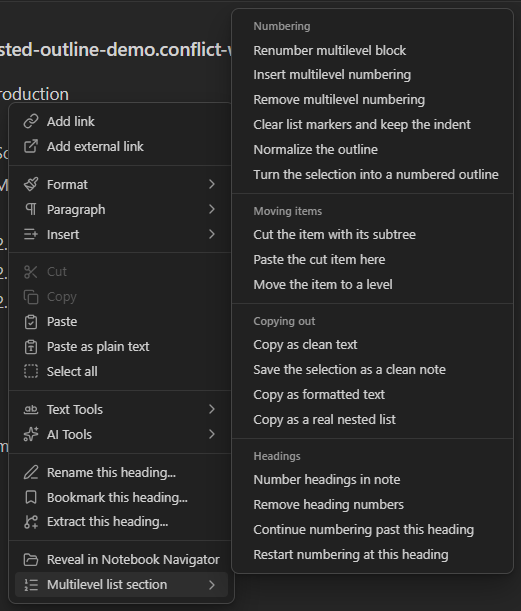
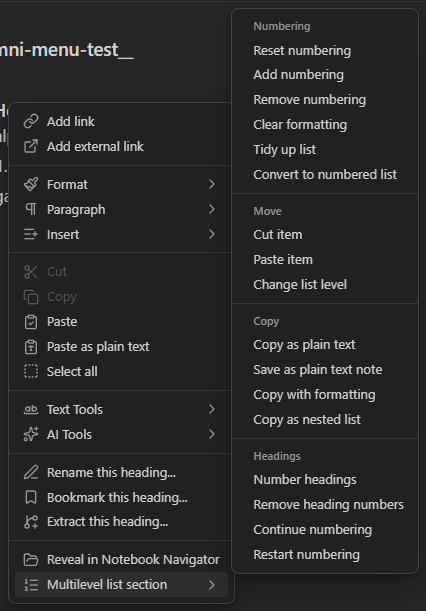
Ship 3.3.9: plain, Word-style names in the right-click menu

diff --git a/main.js b/main.js
@@ -1783,27 +1783,27 @@ class MultilevelNumberIndent extends Plugin {
 
 		this.addCommand({
 			id: "renumber-block",
-			name: "Renumber multilevel block",
+			name: "Reset numbering",
 			editorCallback: (editor) => this.runRange(editor, renumberRange, "renumber"),
 		});
 		this.addCommand({
 			id: "insert-numbering",
-			name: "Insert multilevel numbering",
+			name: "Add numbering",
 			editorCallback: (editor) => this.runRange(editor, insertNumbering, "insert"),
 		});
 		this.addCommand({
 			id: "remove-numbering",
-			name: "Remove multilevel numbering",
+			name: "Remove numbering",
 			editorCallback: (editor) => this.runRange(editor, removeNumbering, "remove"),
 		});
 		this.addCommand({
 			id: "clear-format",
-			name: "Clear list markers and keep the indent",
+			name: "Clear formatting",
 			editorCallback: (editor) => this.runRange(editor, clearFormatting, "clear"),
 		});
 		this.addCommand({
 			id: "number-headings",
-			name: "Number headings in note",
+			name: "Number headings",
 			editorCallback: (editor) => this.runWholeNote(editor, numberHeadings),
 		});
 		this.addCommand({
@@ -1813,12 +1813,12 @@ class MultilevelNumberIndent extends Plugin {
 		});
 		this.addCommand({
 			id: "continue-heading-numbering",
-			name: "Continue numbering past this heading",
+			name: "Continue numbering",
 			editorCheckCallback: (checking, editor) => this.runHeadingContinuation(editor, checking, true),
 		});
 		this.addCommand({
 			id: "restart-heading-numbering",
-			name: "Restart numbering at this heading",
+			name: "Restart numbering",
 			editorCheckCallback: (checking, editor) => this.runHeadingContinuation(editor, checking, false),
 		});
 
@@ -1914,8 +1914,8 @@ class MultilevelNumberIndent extends Plugin {
 				title: "Numbering",
 				ids: ["renumber-block", "insert-numbering", "remove-numbering", "clear-format", "normalize-outline", "ingest-outline"],
 			},
-			{ title: "Moving items", ids: ["cut-item", "paste-item", "move-item-to-level"] },
-			{ title: "Copying out", ids: ["copy-clean-text", "save-clean-note", "copy-formatted", "copy-list"] },
+			{ title: "Move", ids: ["cut-item", "paste-item", "move-item-to-level"] },
+			{ title: "Copy", ids: ["copy-clean-text", "save-clean-note", "copy-formatted", "copy-list"] },
 			{
 				title: "Headings",
 				ids: ["number-headings", "remove-heading-numbers", "continue-heading-numbering", "restart-heading-numbering"],
@@ -2114,7 +2114,7 @@ class MultilevelNumberIndent extends Plugin {
 	addFormatCommands() {
 		this.addCommand({
 			id: "normalize-outline",
-			name: "Normalize the outline",
+			name: "Tidy up list",
 			editorCallback: (editor) => {
 				const text = editor.getValue();
 				const lines = text.split("\n");
@@ -2124,7 +2124,7 @@ class MultilevelNumberIndent extends Plugin {
 		});
 		this.addCommand({
 			id: "ingest-outline",
-			name: "Turn the selection into a numbered outline",
+			name: "Convert to numbered list",
 			editorCallback: (editor) => {
 				const selected = editor.getSelection();
 				if (!selected) return;
@@ -2133,14 +2133,14 @@ class MultilevelNumberIndent extends Plugin {
 		});
 		this.addCommand({
 			id: "copy-clean-text",
-			name: "Copy as clean text",
+			name: "Copy as plain text",
 			editorCallback: (editor) => {
 				this.app.clipboard.write(cleanForExport(editor.getSelection() || editor.getValue()));
 			},
 		});
 		this.addCommand({
 			id: "save-clean-note",
-			name: "Save the selection as a clean note",
+			name: "Save as plain text note",
 			editorCallback: (editor) => {
 				const selected = editor.getSelection() || editor.getValue();
 				const file = this.app.workspace.getActiveFile();
@@ -2150,21 +2150,21 @@ class MultilevelNumberIndent extends Plugin {
 		});
 		this.addCommand({
 			id: "copy-formatted",
-			name: "Copy as formatted text",
+			name: "Copy with formatting",
 			editorCallback: (editor) => {
 				this.writeRich((editor.getSelection() || editor.getValue()).split("\n"), "keep-numbers");
 			},
 		});
 		this.addCommand({
 			id: "copy-list",
-			name: "Copy as a real nested list",
+			name: "Copy as nested list",
 			editorCallback: (editor) => {
 				this.writeRich((editor.getSelection() || editor.getValue()).split("\n"), "list");
 			},
 		});
 		this.addCommand({
 			id: "cut-item",
-			name: "Cut the item with its subtree",
+			name: "Cut item",
 			editorCallback: (editor) => {
 				const text = editor.getValue();
 				const cut = cutItem(text.split("\n"), editor.getCursor().line);
@@ -2175,7 +2175,7 @@ class MultilevelNumberIndent extends Plugin {
 		});
 		this.addCommand({
 			id: "paste-item",
-			name: "Paste the cut item here",
+			name: "Paste item",
 			editorCheckCallback: (checking, editor) => {
 				if (checking) return Boolean(this.cutBuffer);
 				if (!this.cutBuffer) return;
@@ -2188,7 +2188,7 @@ class MultilevelNumberIndent extends Plugin {
 		});
 		this.addCommand({
 			id: "move-item-to-level",
-			name: "Move the item to a level",
+			name: "Change list level",
 			editorCheckCallback: (checking, editor) => {
 				if (checking) return true;
 				new LevelModal(this, (depth) => {

diff --git a/test/core.test.js b/test/core.test.js
@@ -1041,8 +1041,8 @@ const inside = group.sub.entries;
 check("no item inside the group opens a further submenu", inside.filter((e) => e.sub).length, 0);
 check("the categories are labels, not clickable items", inside.filter((e) => e.label).map((e) => [e.title, e.disabled, e.click]), [
 	["Numbering", true, null],
-	["Moving items", true, null],
-	["Copying out", true, null],
+	["Move", true, null],
+	["Copy", true, null],
 	["Headings", true, null],
 ]);
 check("each category is set off by a separator", inside.filter((e) => e.kind === "separator").length, 3);

diff --git a/README.md b/README.md
@@ -48,14 +48,14 @@ Press <kbd>Tab</kbd> and the item steps one level deeper, subtree and all. The n
 <summary><strong>What's new in 3.3.0</strong>: one quiet rule per line, and a menu that scans</summary>
 
 - **One rule per item, on its number.** The margin used to show a rule at every indent step, a fan of lines next to a deep item. Now an item with sub-items draws exactly one faint rule, measured from the editor so it sits under the last digit of its own number (`5.1.1.` hangs on the final `1`) and runs down to its last sub-item. Obsidian's own per-step guides step aside on numbered lines while this is on. Switch it off in the settings tab whenever you like.
-- **The right-click menu is sorted into categories** under **Multilevel list section**: **Numbering**, **Moving items**, **Copying out** and **Headings**. Fifteen items in one column became four short lists.
+- **The right-click menu is sorted into categories** under **Multilevel list section**: **Numbering**, **Move**, **Copy** and **Headings**. Fifteen items in one column became four short lists.
 </details>
 
 <details>
 <summary><strong>What's new in 3.2.0</strong>: the clear-format move, and the pasting rules written down</summary>
 
-- **`Clear list markers and keep the indent`** is the clear-format move: numbers and bullets come off the front of the lines, numbers come off the headings, and the indentation is left exactly as it was, so you can lay the text out again by hand. Any numbering style goes, `1.1 text` included. Blockquotes are content and stay put.
-- **Smart placement, written down.** A pasted number carries its own depth in its segments: `1.1 text` lands at level 2 and `1.1.1 text` at level 3, whatever the indent in front of it says. That is what `Turn the selection into a numbered outline` does, and it is spelled out under [Smart placement](#smart-placement).
+- **`Clear formatting`** is the clear-format move: numbers and bullets come off the front of the lines, numbers come off the headings, and the indentation is left exactly as it was, so you can lay the text out again by hand. Any numbering style goes, `1.1 text` included. Blockquotes are content and stay put.
+- **Smart placement, written down.** A pasted number carries its own depth in its segments: `1.1 text` lands at level 2 and `1.1.1 text` at level 3, whatever the indent in front of it says. That is what `Convert to numbered list` does, and it is spelled out under [Smart placement](#smart-placement).
 - **A picture of the right-click menu**, with the **Multilevel list section** group open, so the menu is easy to find the first time.
 </details>
 
@@ -63,7 +63,7 @@ Press <kbd>Tab</kbd> and the item steps one level deeper, subtree and all. The n
 <summary><strong>What's new in 3.1.0</strong>: the right-click menu, and a list that can run on across a heading</summary>
 
 - **One labelled group in the right-click menu.** Every command sits under **Multilevel list section**, so they read as this plugin's instead of being scattered through the editor menu.
-- **Restart or continue the numbering at a heading**, the way Word does it. Right-click the heading and pick **Continue numbering past this heading** to keep the count running on, or **Restart numbering at this heading** to start again at `1.`. The choice is an HTML comment on the heading line, so it never shows in reading view or in an exported copy.
+- **Restart or continue the numbering at a heading**, the way Word does it. Right-click the heading and pick **Continue numbering** to keep the count running on, or **Restart numbering** to start again at `1.`. The choice is an HTML comment on the heading line, so it never shows in reading view or in an exported copy.
 - **Pasted numbers without a closing mark** (`1.1 text`, `1.1.1 text`) are taken off whole now, and the number itself says how deep the item sits, so a ragged indent cannot push an item down a level.
 - **No more stray rules around a deep item.** A four-space indent makes the host read the line as an indented code block, and that block's tint and its top and bottom rules were the odd lines people were seeing in the editor.
 </details>
@@ -75,12 +75,12 @@ Press <kbd>Tab</kbd> and the item steps one level deeper, subtree and all. The n
 - **Presets**, so nobody has to build `1.1(a)` by hand. Six come with the plugin, you can save your own, and the set travels between machines as JSON.
 - **Thai number styles**: `ก` for `ก` `ข` `ค`, `๑` for `๑` `๒` `๓`. `ข้อ ๑.` is written the same way `1.1(a)` is.
 - **Per-note formats** in the frontmatter, so a legal note and a workshop note can live in one vault in different shapes.
-- **`Normalize the outline`** puts a drifted note back: whole-unit indents, the space back after `1.text`, trailing whitespace gone, every number recomputed.
+- **`Tidy up list`** puts a drifted note back: whole-unit indents, the space back after `1.text`, trailing whitespace gone, every number recomputed.
 - **Smart paste** turns foreign bullets and numbers into this numbering. Opt-in, and it only fires when the clipboard really looks like a list.
 - **Clean text on the way out**: links become their display text, callouts keep their titles and lose their markers, comments and emphasis go.
 - **Rich text on the way out**: HTML and RTF with the numbering kept, or as a real nested list so Word and mail clients number it themselves.
 - **Multi-line selections move as one group**, subtrees included.
-- **Cut and paste as a subtree**, and **Move the item to a level**, for the moves that are about structure rather than one keystroke.
+- **Cut and paste as a subtree**, and **Change list level**, for the moves that are about structure rather than one keystroke.
 - **Indent guides** and a **status bar** that names the level and the number under the cursor.
 
 Also fixed: blank lines between two siblings no longer disappear when <kbd>Alt</kbd>+<kbd>↑</kbd>/<kbd>↓</kbd> swaps them, and body text written deeper than an item no longer restarts the count. [Full changelog](CHANGELOG.md)
@@ -112,49 +112,49 @@ A rule of thumb before the details: **select first, then right-click.** Most com
 
 | Menu item | Use it when | What happens |
 |---|---|---|
-| **Renumber multilevel block** | The numbers went out of step after hand edits: `1.5.` under `1.`, two items both called `3.` | Every number in the block is counted again from the real indentation. The words are not touched. The cursor can sit anywhere in the list. |
-| **Insert multilevel numbering** | You wrote plain lines and indented them with <kbd>Tab</kbd>, and now you want numbers | Select the lines. Each one gets the number its indent calls for: `Goals` / `→ speed` becomes `1. Goals` / `→ 1.1. speed`. For bullets or someone else's numbers use **Turn the selection into a numbered outline** instead, it strips the old marker first. |
-| **Remove multilevel numbering** | You want this plugin's numbers gone and nothing else changed | The `1.` / `1.1.` / `1)` come off. Bullets, headings and indentation stay exactly as they are. |
-| **Clear list markers and keep the indent** | You want a clean slate: every kind of marker gone | Numbers of any style, bullets (`-` `*` `•`), and heading numbers all come off. The indentation stays, so the shape of the list survives and you can number it again in one click. |
-| **Normalize the outline** | A list looks ragged: three spaces here, five there, `1.text` with no space | Indents snap to whole levels, the space after the number comes back, trailing spaces go, and everything is renumbered. |
-| **Turn the selection into a numbered outline** | You pasted a list from Word, a web page or a chat | Select the pasted lines. Old bullets and numbers are replaced with this plugin's numbering, and a dotted number decides its own level: `1.1 Scope` lands at level 2, `1.1.1 In scope` at level 3, whatever the indent says. See [Smart placement](#smart-placement). |
+| **Reset numbering** | The numbers went out of step after hand edits: `1.5.` under `1.`, two items both called `3.` | Every number in the block is counted again from the real indentation. The words are not touched. The cursor can sit anywhere in the list. |
+| **Add numbering** | You wrote plain lines and indented them with <kbd>Tab</kbd>, and now you want numbers | Select the lines. Each one gets the number its indent calls for: `Goals` / `→ speed` becomes `1. Goals` / `→ 1.1. speed`. For bullets or someone else's numbers use **Convert to numbered list** instead, it strips the old marker first. |
+| **Remove numbering** | You want this plugin's numbers gone and nothing else changed | The `1.` / `1.1.` / `1)` come off. Bullets, headings and indentation stay exactly as they are. |
+| **Clear formatting** | You want a clean slate: every kind of marker gone | Numbers of any style, bullets (`-` `*` `•`), and heading numbers all come off. The indentation stays, so the shape of the list survives and you can number it again in one click. |
+| **Tidy up list** | A list looks ragged: three spaces here, five there, `1.text` with no space | Indents snap to whole levels, the space after the number comes back, trailing spaces go, and everything is renumbered. |
+| **Convert to numbered list** | You pasted a list from Word, a web page or a chat | Select the pasted lines. Old bullets and numbers are replaced with this plugin's numbering, and a dotted number decides its own level: `1.1 Scope` lands at level 2, `1.1.1 In scope` at level 3, whatever the indent says. See [Smart placement](#smart-placement). |
 
-### Moving items
+### Move
 
 | Menu item | Use it when | What happens |
 |---|---|---|
-| **Cut the item with its subtree** | An item and everything under it belongs somewhere far away, too far for <kbd>Alt</kbd>+<kbd>↑</kbd>/<kbd>↓</kbd> | Put the cursor on the item and pick it. The item and all its sub-items leave the note and wait in the plugin's own pocket (your normal clipboard is left alone). The list closes up and renumbers. |
-| **Paste the cut item here** | Right after a cut | Put the cursor on the item you want it to follow. The whole branch lands right after that item, at the same level, and everything renumbers. With nothing cut, it does nothing. |
-| **Move the item to a level** | You know the level you want: "this should be level 2" | A small box asks for a level number. The item and its sub-items jump there in one go, instead of pressing <kbd>Tab</kbd> or <kbd>Shift</kbd>+<kbd>Tab</kbd> several times. |
+| **Cut item** | An item and everything under it belongs somewhere far away, too far for <kbd>Alt</kbd>+<kbd>↑</kbd>/<kbd>↓</kbd> | Put the cursor on the item and pick it. The item and all its sub-items leave the note and wait in the plugin's own pocket (your normal clipboard is left alone). The list closes up and renumbers. |
+| **Paste item** | Right after a cut | Put the cursor on the item you want it to follow. The whole branch lands right after that item, at the same level, and everything renumbers. With nothing cut, it does nothing. |
+| **Change list level** | You know the level you want: "this should be level 2" | A small box asks for a level number. The item and its sub-items jump there in one go, instead of pressing <kbd>Tab</kbd> or <kbd>Shift</kbd>+<kbd>Tab</kbd> several times. |
 
-### Copying out
+### Copy
 
 These four work on the selection, or on the whole note when nothing is selected. None of them changes the note.
 
 | Menu item | Use it when | What happens |
 |---|---|---|
-| **Copy as clean text** | Pasting into a chat, an email, a form: somewhere Markdown would look like noise | The text goes to the clipboard with the numbers kept and the Markdown gone: `[[Note\|shown]]` becomes `shown`, `**bold**` becomes `bold`, `%%comments%%` disappear. |
-| **Save the selection as a clean note** | You want that clean version as a file of its own | The same clean text, saved as a new note named after this one, `(clean)` on the end. |
-| **Copy as formatted text** | Pasting into Word, Google Docs or an email and you want it to look like the note | Rich text with the numbering exactly as you see it, indents included. |
-| **Copy as a real nested list** | The other document should own the numbering, so it can keep renumbering as people edit | A real nested list: Word or the mail app numbers it with its own list style. |
+| **Copy as plain text** | Pasting into a chat, an email, a form: somewhere Markdown would look like noise | The text goes to the clipboard with the numbers kept and the Markdown gone: `[[Note\|shown]]` becomes `shown`, `**bold**` becomes `bold`, `%%comments%%` disappear. |
+| **Save as plain text note** | You want that clean version as a file of its own | The same clean text, saved as a new note named after this one, `(clean)` on the end. |
+| **Copy with formatting** | Pasting into Word, Google Docs or an email and you want it to look like the note | Rich text with the numbering exactly as you see it, indents included. |
+| **Copy as nested list** | The other document should own the numbering, so it can keep renumbering as people edit | A real nested list: Word or the mail app numbers it with its own list style. |
 
 ### Headings
 
 | Menu item | Use it when | What happens |
 |---|---|---|
-| **Number headings in note** | You want a numbered document structure | Every heading in the note gets a number: `# 1 Intro`, `## 1.1 Scope`, `# 2 Method`. From then on, changing a heading level with <kbd>Tab</kbd> renumbers them automatically. |
+| **Number headings** | You want a numbered document structure | Every heading in the note gets a number: `# 1 Intro`, `## 1.1 Scope`, `# 2 Method`. From then on, changing a heading level with <kbd>Tab</kbd> renumbers them automatically. |
 | **Remove heading numbers** | The report is done, or you changed your mind | The numbers come off every heading, and the automatic renumbering stops. |
-| **Continue numbering past this heading** | A list above a heading should keep counting below it (`4.` `5.`) instead of starting again at `1.` | Only shows when you right-click a heading. A tiny invisible mark goes on the heading line. It never shows in reading view or in a clean copy. |
-| **Restart numbering at this heading** | You want the normal fresh `1.` back under that heading | Only shows on a heading. It takes that mark away again. |
+| **Continue numbering** | A list above a heading should keep counting below it (`4.` `5.`) instead of starting again at `1.` | Only shows when you right-click a heading. A tiny invisible mark goes on the heading line. It never shows in reading view or in a clean copy. |
+| **Restart numbering** | You want the normal fresh `1.` back under that heading | Only shows on a heading. It takes that mark away again. |
 
 ### Pasting a list that already has numbers
 
 Two ways, pick whichever suits you:
 
 - **Automatic.** Switch on **Format pasted lists** in the settings tab. From then on <kbd>Ctrl</kbd>+<kbd>V</kbd> of anything that looks like a list (at least two numbered or bulleted lines, or lines at different indents) is laid out as this plugin's numbering straight away. Plain paragraphs are pasted as they are. The switch ships off, so turn it on the first time.
-- **By hand.** Paste as usual, select the pasted lines, right-click, **Multilevel list section**, **Turn the selection into a numbered outline**.
+- **By hand.** Paste as usual, select the pasted lines, right-click, **Multilevel list section**, **Convert to numbered list**.
 
-Either way you do **not** need to clear the old numbers first. The old markers are replaced for you, and a dotted number such as `1.1` or `1.1.1` even tells the plugin which level it belongs on. Reach for **Clear list markers and keep the indent** first only when you want to throw the old structure away and arrange the lines yourself.
+Either way you do **not** need to clear the old numbers first. The old markers are replaced for you, and a dotted number such as `1.1` or `1.1.1` even tells the plugin which level it belongs on. Reach for **Clear formatting** first only when you want to throw the old structure away and arrange the lines yourself.
 
 One thing the plugin cannot guess: a line with no dotted number is placed by its indent. So `a) speed` sitting flush under `1) Goals` with no indent comes out as a sibling, not a child. Select those lines and press <kbd>Tab</kbd> once, and they step in together.
 
@@ -257,12 +257,12 @@ The numbering is only half the job. What matters is the text that comes out.
 
 | Command | What it does |
 |---|---|
-| `Normalize the outline` | Puts a drifted note back into shape and renumbers it from the real depth |
-| `Turn the selection into a numbered outline` | Takes a pasted list apart and rebuilds it in this numbering, foreign bullets and foreign numbers included |
-| `Copy as clean text` | The selection as prose: links become their display text, callout markers and comments and emphasis go |
-| `Save the selection as a clean note` | The same cleaned text, written to a new note |
-| `Copy as formatted text` | HTML and RTF with the numbering kept exactly as it reads in the note |
-| `Copy as a real nested list` | HTML and RTF as a real nested list, so Word and mail clients number it themselves |
+| `Tidy up list` | Puts a drifted note back into shape and renumbers it from the real depth |
+| `Convert to numbered list` | Takes a pasted list apart and rebuilds it in this numbering, foreign bullets and foreign numbers included |
+| `Copy as plain text` | The selection as prose: links become their display text, callout markers and comments and emphasis go |
+| `Save as plain text note` | The same cleaned text, written to a new note |
+| `Copy with formatting` | HTML and RTF with the numbering kept exactly as it reads in the note |
+| `Copy as nested list` | HTML and RTF as a real nested list, so Word and mail clients number it themselves |
 
 **Format pasted lists** in the settings tab does that first conversion automatically on <kbd>Ctrl</kbd>+<kbd>V</kbd>. It ships switched off, and it only fires on text that really looks like a list.
 
@@ -270,7 +270,7 @@ The numbering is only half the job. What matters is the text that comes out.
 
 When a list comes in from Word, a web page or a chat, the numbers usually know more than the indents do. So the number says how deep the item goes: `1.1 text` is level 2 and `1.1.1 text` is level 3, whatever indentation sits in front of it. Only a dotted number gets that say (`1.1`, `1.1.1`, `1.1.1)`); a line that merely starts with `1` is prose and is placed by its indent like everything else. A drifted indent therefore cannot push an item down a level, and a ragged outline comes out level.
 
-It is the same move through either door: `Turn the selection into a numbered outline` on a selection, or <kbd>Ctrl</kbd>+<kbd>V</kbd> with **Format pasted lists** switched on. Right-click the text and it is in the menu too, under **Multilevel list section**. That is the whole thing: select the lines, right-click, pick the command, and the list lays itself out.
+It is the same move through either door: `Convert to numbered list` on a selection, or <kbd>Ctrl</kbd>+<kbd>V</kbd> with **Format pasted lists** switched on. Right-click the text and it is in the menu too, under **Multilevel list section**. That is the whole thing: select the lines, right-click, pick the command, and the list lays itself out.
 
 The smallest indent step in the text decides what one level is worth, so a three-space or a tab outline still comes out one level per step. And the numbers are counted, never copied: `1.2.4` written under `1.2.1` comes out `1.2.2`, because the count always follows the real depth.
 
@@ -278,31 +278,31 @@ The smallest indent step in the text decides what one level is worth, so a three
 
 Headings use the same templates with the closing period dropped: `# 1 Introduction`, `## 1.1 Scope`, `### 1.1.1 Detail`. From level 4 they follow the plain-text rule and end with a bracket: `#### 1) Point`, `##### 1.1) Detail`.
 
-Changing a heading level or moving a section renumbers the note automatically, but only **once the note is in numbered mode**, that is, once at least one heading carries a number. A note with no numbers is left alone, so <kbd>Tab</kbd> never starts numbering a document by surprise. `Number headings in note` turns the mode on, `Remove heading numbers` turns it off.
+Changing a heading level or moving a section renumbers the note automatically, but only **once the note is in numbered mode**, that is, once at least one heading carries a number. A note with no numbers is left alone, so <kbd>Tab</kbd> never starts numbering a document by surprise. `Number headings` turns the mode on, `Remove heading numbers` turns it off.
 
-A heading normally starts a fresh list: the items under it count from `1.` again. When you want the count to run on instead, the way Word lets a list continue across a heading, right-click the heading and pick **Continue numbering past this heading**. **Restart numbering at this heading** puts it back. The choice rides on the heading line as an HTML comment, so reading view and `Copy as clean text` never show it.
+A heading normally starts a fresh list: the items under it count from `1.` again. When you want the count to run on instead, the way Word lets a list continue across a heading, right-click the heading and pick **Continue numbering**. **Restart numbering** puts it back. The choice rides on the heading line as an HTML comment, so reading view and `Copy as plain text` never show it.
 
 ## Commands
 
 | Command | What it does |
 |---|---|
-| `Number headings in note` | Write `1` / `1.1` / `1.1.1` into every heading |
+| `Number headings` | Write `1` / `1.1` / `1.1.1` into every heading |
 | `Remove heading numbers` | Strip the numbers from every heading |
-| `Renumber multilevel block` | Recompute the plain-text numbers from the real indentation |
-| `Insert multilevel numbering` | Turn a space-indented outline into a numbered one |
-| `Remove multilevel numbering` | Strip the plain-text numbers, keeping the indentation |
-| `Clear list markers and keep the indent` | The clear-format move: numbers and bullets of any style off the lines, numbers off the headings too, the indentation left exactly as it was |
-| `Normalize the outline` | Put a drifted outline back into shape and renumber it |
-| `Turn the selection into a numbered outline` | Convert pasted bullets and foreign numbers |
-| `Cut the item with its subtree` | Take an item and everything under it out, ready to place |
-| `Paste the cut item here` | Put it back after the current item, at that item's level |
-| `Move the item to a level` | Ask for a level and move the item and its subtree there |
-| `Continue numbering past this heading` | Let the list run on across the heading instead of starting again at `1.` |
-| `Restart numbering at this heading` | Start a fresh count at `1.` under this heading |
-| `Copy as clean text` | The selection as prose, without any Markdown markers |
-| `Save the selection as a clean note` | The same, written to a new note |
-| `Copy as formatted text` | Rich text with the numbering kept |
-| `Copy as a real nested list` | Rich text as a nested list the target numbers itself |
+| `Reset numbering` | Recompute the plain-text numbers from the real indentation |
+| `Add numbering` | Turn a space-indented outline into a numbered one |
+| `Remove numbering` | Strip the plain-text numbers, keeping the indentation |
+| `Clear formatting` | The clear-format move: numbers and bullets of any style off the lines, numbers off the headings too, the indentation left exactly as it was |
+| `Tidy up list` | Put a drifted outline back into shape and renumber it |
+| `Convert to numbered list` | Convert pasted bullets and foreign numbers |
+| `Cut item` | Take an item and everything under it out, ready to place |
+| `Paste item` | Put it back after the current item, at that item's level |
+| `Change list level` | Ask for a level and move the item and its subtree there |
+| `Continue numbering` | Let the list run on across the heading instead of starting again at `1.` |
+| `Restart numbering` | Start a fresh count at `1.` under this heading |
+| `Copy as plain text` | The selection as prose, without any Markdown markers |
+| `Save as plain text note` | The same, written to a new note |
+| `Copy with formatting` | Rich text with the numbering kept |
+| `Copy as nested list` | Rich text as a nested list the target numbers itself |
 
 Each command is one editor transaction, so a single <kbd>Ctrl</kbd>+<kbd>Z</kbd> puts everything back.
 
@@ -312,8 +312,8 @@ Every command is also in the right-click menu, and the [right-click menu](#the-r
 
 No network calls, no telemetry, and nothing loaded at runtime beyond what the host already provides. Two things are worth spelling out anyway.
 
-- **The clipboard, and only when you ask for it.** `Copy as clean text`, `Copy as formatted text` and `Copy as a real nested list` write to it. `Format pasted lists` reads what you just pasted, through the paste event itself. Nothing is read or written in the background.
-- **Your notes, through the normal vault API.** Every command is one editor transaction, so one <kbd>Ctrl</kbd>+<kbd>Z</kbd> puts everything back. No file is touched outside the note you are in, except `Save the selection as a clean note`, which creates one new note that you named.
+- **The clipboard, and only when you ask for it.** `Copy as plain text`, `Copy with formatting` and `Copy as nested list` write to it. `Format pasted lists` reads what you just pasted, through the paste event itself. Nothing is read or written in the background.
+- **Your notes, through the normal vault API.** Every command is one editor transaction, so one <kbd>Ctrl</kbd>+<kbd>Z</kbd> puts everything back. No file is touched outside the note you are in, except `Save as plain text note`, which creates one new note that you named.
 
 ## Installation
 

diff --git a/docs/INSTALL.th.md b/docs/INSTALL.th.md
@@ -120,7 +120,7 @@ PY
 
 ## คำสั่งใน Command Palette
 
-`Number headings in note`, `Remove heading numbers`, `Renumber multilevel block`, `Insert multilevel numbering`, `Remove multilevel numbering`, `Normalize the outline`, `Turn the selection into a numbered outline`, `Cut the item with its subtree`, `Paste the cut item here`, `Move the item to a level`, `Copy as clean text`, `Save the selection as a clean note`, `Copy as formatted text`, `Copy as a real nested list`, `Continue numbering past this heading`, `Restart numbering at this heading`, `Clear list markers and keep the indent`
+`Number headings`, `Remove heading numbers`, `Reset numbering`, `Add numbering`, `Remove numbering`, `Tidy up list`, `Convert to numbered list`, `Cut item`, `Paste item`, `Change list level`, `Copy as plain text`, `Save as plain text note`, `Copy with formatting`, `Copy as nested list`, `Continue numbering`, `Restart numbering`, `Clear formatting`
 
 รายละเอียดของแต่ละคำสั่งอยู่ที่ [README.th.md](README.th.md)
 
@@ -131,7 +131,7 @@ PY
 | ไม่เห็น plugin ใน Settings | ยังไม่ reload | ปิดเปิด Obsidian ใหม่ |
 | เพิ่มในไฟล์แล้วหาย | Obsidian เปิดอยู่ตอนแก้ | ปิด Obsidian ก่อนแก้ไฟล์ |
 | กด Tab บนบรรทัดเลขแล้วไม่ย่อ | เป็นรายการแรกของระดับนั้น ไม่มีพี่น้องให้ไปเป็นลูก | ถูกต้องตามดีไซน์ ให้ย่อรายการที่ 2 เป็นต้นไป |
-| กด Tab บน heading แล้วไม่เปลี่ยน level | โน้ตยังไม่มีเลข heading | รันคำสั่ง `Number headings in note` ครั้งหนึ่งก่อน |
+| กด Tab บน heading แล้วไม่เปลี่ยน level | โน้ตยังไม่มีเลข heading | รันคำสั่ง `Number headings` ครั้งหนึ่งก่อน |
 | ปุ่มไม่ทำงานเลย | มี plugin อื่นยึดปุ่มเดียวกันที่ capture phase | ปิด plugin นั้น (เช่น Nested Ordered Numbering, Heading Shifter) |
 
 ## ถอนการติดตั้ง

diff --git a/CHANGELOG.md b/CHANGELOG.md
@@ -1,5 +1,30 @@
 # Changelog
 
+## 3.3.9
+
+Short, plain names in the right-click menu, in the words Word uses where Word has a word for it: **Reset numbering**, **Restart numbering**, **Continue numbering**. Two categories got shorter too: **Moving items** is now **Move**, **Copying out** is now **Copy**.
+
+Only the names changed. The command ids are the same, so any hotkey you set on a command keeps working.
+
+| Before | Now |
+|---|---|
+| Renumber multilevel block | **Reset numbering** |
+| Insert multilevel numbering | **Add numbering** |
+| Remove multilevel numbering | **Remove numbering** |
+| Clear list markers and keep the indent | **Clear formatting** |
+| Normalize the outline | **Tidy up list** |
+| Turn the selection into a numbered outline | **Convert to numbered list** |
+| Cut the item with its subtree | **Cut item** |
+| Paste the cut item here | **Paste item** |
+| Move the item to a level | **Change list level** |
+| Copy as clean text | **Copy as plain text** |
+| Save the selection as a clean note | **Save as plain text note** |
+| Copy as formatted text | **Copy with formatting** |
+| Copy as a real nested list | **Copy as nested list** |
+| Number headings in note | **Number headings** |
+| Continue numbering past this heading | **Continue numbering** |
+| Restart numbering at this heading | **Restart numbering** |
+
 ## 3.3.8
 
 A guide to the right-click menu. No change to how the plugin behaves.
